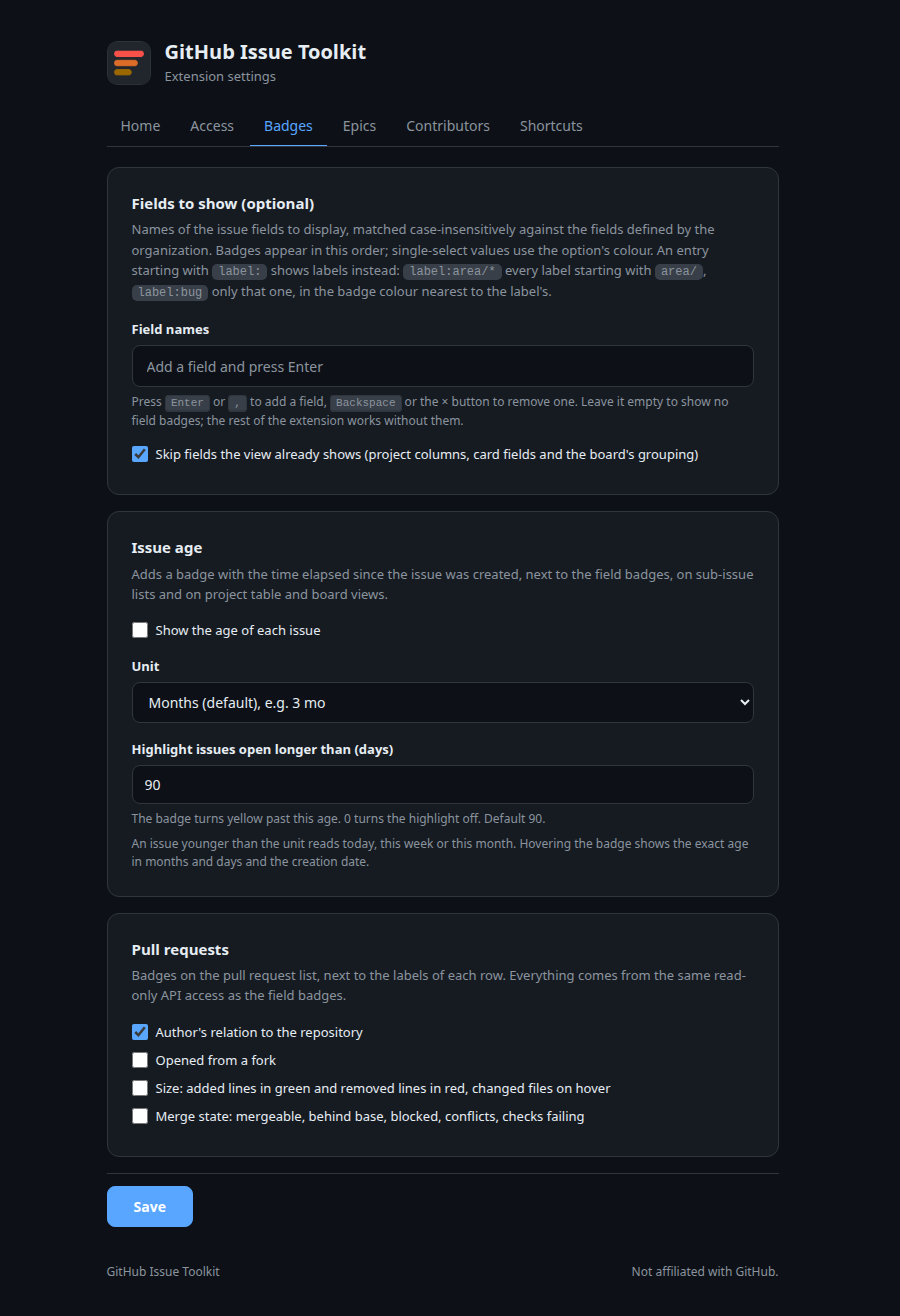
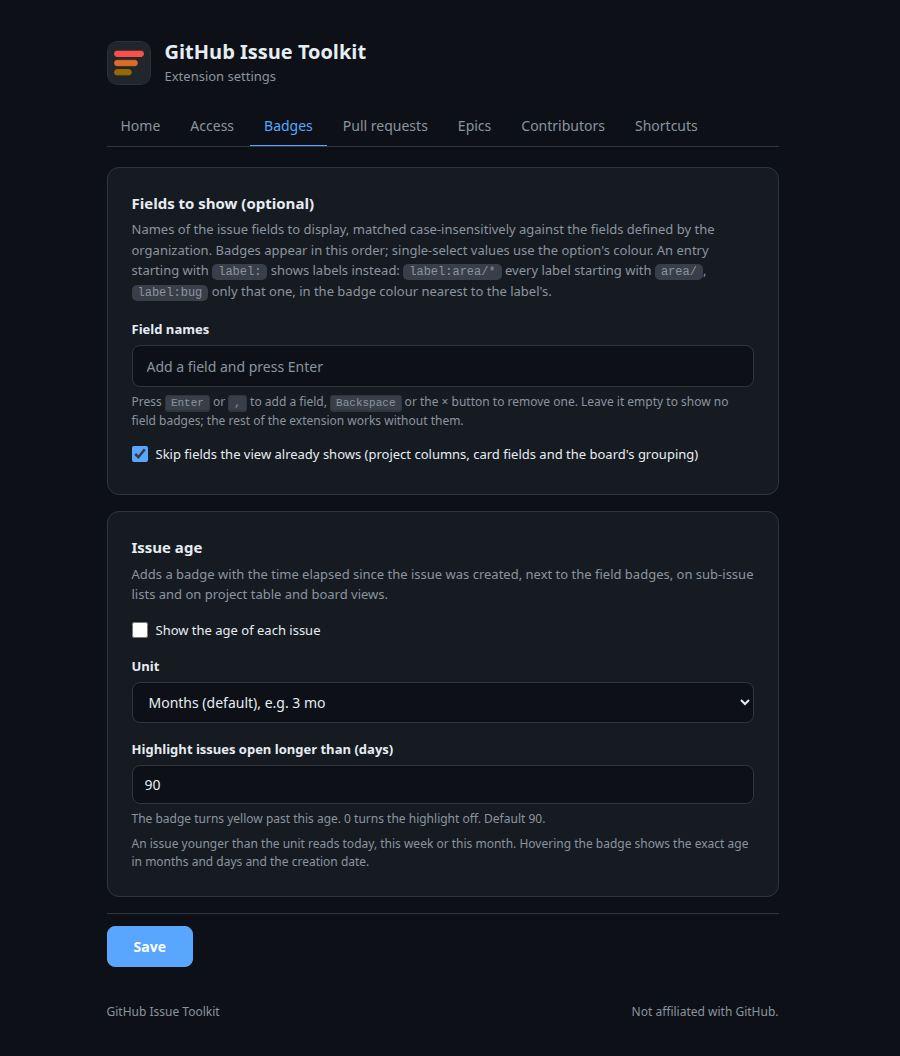
fix(settings): give pull requests their own tab and move related work there from epics (#63)
Related work on pull requests sat on the Epics tab, away from the pull
request badges it belongs with. Both now live on a new Pull requests
tab, which leaves Badges for the issue fields and the issue age and
Epics for the board, the progress and the sidebar.

- Add a Pull requests tab holding the pull request badges, moved from
Badges, and related work, moved from Epics
- Update the tab list, the Home map and the descriptions of the Badges
and Epics tabs
- Update the README, the site and the changelog to name the new tab and
regenerate the settings screenshots

Changed region(s): [[0.0933, 0.0312, 0.84, 0.9688], [0.6844, 0.9375, 0.8711, 0.9688], [0.7156, 0.0938, 0.7778, 0.125]]

diff --git a/options.html b/options.html
@@ -218,6 +218,7 @@
       <button type="button" role="tab" id="tab-home" data-tab="home" aria-controls="panel-home">Home</button>
       <button type="button" role="tab" id="tab-access" data-tab="access" aria-controls="panel-access">Access</button>
       <button type="button" role="tab" id="tab-badges" data-tab="badges" aria-controls="panel-badges">Badges</button>
+      <button type="button" role="tab" id="tab-pulls" data-tab="pulls" aria-controls="panel-pulls">Pull requests</button>
       <button type="button" role="tab" id="tab-epics" data-tab="epics" aria-controls="panel-epics">Epics</button>
       <button type="button" role="tab" id="tab-contributors" data-tab="contributors" aria-controls="panel-contributors">Contributors</button>
       <button type="button" role="tab" id="tab-shortcuts" data-tab="shortcuts" aria-controls="panel-shortcuts">Shortcuts</button>
@@ -239,8 +240,9 @@
         <h2>Where to find things</h2>
         <div class="tour">
           <button type="button" data-tab="access"><b>Access</b><span>Your personal access token and the site access Firefox asks for.</span></button>
-          <button type="button" data-tab="badges"><b>Badges</b><span>Issue fields, issue age and pull request badges.</span></button>
-          <button type="button" data-tab="epics"><b>Epics</b><span>The kanban board, sub-issue progress, related work on a pull request and the button that hides the issue sidebar.</span></button>
+          <button type="button" data-tab="badges"><b>Badges</b><span>Issue fields and issue age.</span></button>
+          <button type="button" data-tab="pulls"><b>Pull requests</b><span>The badges on the pull request list and the related work box above a pull request.</span></button>
+          <button type="button" data-tab="epics"><b>Epics</b><span>The kanban board, sub-issue progress and the button that hides the issue sidebar.</span></button>
           <button type="button" data-tab="contributors"><b>Contributors</b><span>Who a person is to the repository, their record in an organization on profiles, and the requests to be assigned on an issue.</span></button>
           <button type="button" data-tab="shortcuts"><b>Shortcuts</b><span>The pinned issues button in GitHub's top bar and search from the address bar with <code>@gh</code>.</span></button>
         </div>
@@ -294,13 +296,22 @@
         <p class="hint">The badge turns yellow past this age. 0 turns the highlight off. Default 90.</p>
         <p class="hint">An issue younger than the unit reads today, this week or this month. Hovering the badge shows the exact age in months and days and the creation date.</p>
       </section>
+    </div>
+
+    <div class="panel" id="panel-pulls" role="tabpanel" aria-labelledby="tab-pulls" hidden>
       <section class="card">
-        <h2>Pull requests</h2>
+        <h2>Pull request badges</h2>
         <p class="desc">Badges on the pull request list, next to the labels of each row. Everything comes from the same read-only API access as the field badges.</p>
         <label class="check"><input id="pr-association" type="checkbox"> Author's relation to the repository</label>
         <label class="check"><input id="pr-fork" type="checkbox"> Opened from a fork</label>
         <label class="check"><input id="pr-size" type="checkbox"> Size: added lines in green and removed lines in red, changed files on hover</label>
         <label class="check"><input id="pr-merge-state" type="checkbox"> Merge state: mergeable, behind base, blocked, conflicts, checks failing</label>
+      </section>
+      <section class="card">
+        <h2>Related work on pull requests</h2>
+        <p class="desc">On a pull request, a full-width box above its header lists everything connected to it: the issues it closes, what its description says it is related to, the other pull requests on the same issues and what mentions it. The issue it closes is named in the header, so it shows while the box is folded. The description is read for the words GitHub links with, <em>closes</em>, <em>fixes</em> and <em>resolves</em> in all their forms, and for the ones people use to tie changes together, <em>related to</em>, <em>part of</em>, <em>counterpart of</em>, <em>follow-up to</em>, <em>backport of</em>, <em>depends on</em>, <em>see</em> and so on, with <code>#123</code>, <code>owner/repo#123</code> and links to issues and pull requests. It is read once per pull request, in two requests, and kept until you close the tab.</p>
+        <label class="check"><input id="related-enabled" type="checkbox"> Show related work on pull requests</label>
+        <label class="check"><input id="related-folded" type="checkbox"> Collapse the box when a pull request opens, so only its header line shows</label>
       </section>
     </div>
 
@@ -325,12 +336,6 @@
           <input id="progress-done-value" type="text" spellcheck="false" autocomplete="off" placeholder="Done" aria-label="Value of that field that marks a sub-issue as done">
         </div>
         <p class="hint">A sub-issue counts as done when this field has this value, <code>Stage</code> and <code>Done</code> for example. Leave both empty and a closed sub-issue is a done one. Needs a token that can read issue fields, like the badges.</p>
-      </section>
-      <section class="card">
-        <h2>Related work on pull requests</h2>
-        <p class="desc">On a pull request, a full-width box above its header lists everything connected to it: the issues it closes, what its description says it is related to, the other pull requests on the same issues and what mentions it. The issue it closes is named in the header, so it shows while the box is folded. The description is read for the words GitHub links with, <em>closes</em>, <em>fixes</em> and <em>resolves</em> in all their forms, and for the ones people use to tie changes together, <em>related to</em>, <em>part of</em>, <em>counterpart of</em>, <em>follow-up to</em>, <em>backport of</em>, <em>depends on</em>, <em>see</em> and so on, with <code>#123</code>, <code>owner/repo#123</code> and links to issues and pull requests. It is read once per pull request, in two requests, and kept until you close the tab.</p>
-        <label class="check"><input id="related-enabled" type="checkbox"> Show related work on pull requests</label>
-        <label class="check"><input id="related-folded" type="checkbox"> Collapse the box when a pull request opens, so only its header line shows</label>
       </section>
       <section class="card">
         <h2>Issue sidebar</h2>

diff --git a/docs/index.html b/docs/index.html
@@ -666,7 +666,7 @@
       <p class="example-caption">Only the words that were found are bold, on a soft highlight. A closed list says which words are searched for and links to the settings where they can be changed. Nothing is hidden until you confirm.</p>
 
       <h3 style="margin-top:28px">Related work on pull requests</h3>
-      <p class="muted" style="font-size:14px">On a pull request, a full-width box above its header lists everything connected to it: the issues it closes, what its description says it is related to, the other pull requests on the same issues and what mentions it. The issue it closes is named in the header, so it shows while the box is folded. The description is read for the words GitHub links with, <em>closes</em>, <em>fixes</em> and <em>resolves</em> in all their forms, and for the ones people use to tie changes together, <em>related to</em>, <em>part of</em>, <em>counterpart of</em>, <em>follow-up to</em>, <em>backport of</em>, <em>depends on</em>, <em>see</em> and more, next to <code>#123</code>, <code>owner/repo#123</code> and links, so a counterpart in another repository is found too. Like the other panels it opens folded to its header line, with an arrow to unfold it, and a setting makes it start open. It can be turned off on the Epics tab of the settings.</p>
+      <p class="muted" style="font-size:14px">On a pull request, a full-width box above its header lists everything connected to it: the issues it closes, what its description says it is related to, the other pull requests on the same issues and what mentions it. The issue it closes is named in the header, so it shows while the box is folded. The description is read for the words GitHub links with, <em>closes</em>, <em>fixes</em> and <em>resolves</em> in all their forms, and for the ones people use to tie changes together, <em>related to</em>, <em>part of</em>, <em>counterpart of</em>, <em>follow-up to</em>, <em>backport of</em>, <em>depends on</em>, <em>see</em> and more, next to <code>#123</code>, <code>owner/repo#123</code> and links, so a counterpart in another repository is found too. Like the other panels it opens folded to its header line, with an arrow to unfold it, and a setting makes it start open. It can be turned off on the Pull requests tab of the settings.</p>
       <div class="panel gh-card mock-profile mock-related" id="ex-related" style="max-width:820px;padding:14px 16px">
         <div class="org">
           <div class="hd"><span class="fo"></span><span class="lg"><i></i></span><div class="bl"><span class="ti">Related work</span><span class="sb">closes</span><span class="lk">acme/webapp-ee#12798 Round the numbers in the charts</span><span class="sb">(3 pull requests)</span><span class="ag">Read just now</span></div></div>
@@ -809,12 +809,12 @@
       <h2>Settings</h2>
       <p class="muted">The token is the one essential; the fields to show, the age badge, the pull request badges, the contributor load button, the organization panel on profiles, the assignment requests box, related work on pull requests, the epic kanban toggle, the sub-issue progress, the sidebar button, hiding the sidebar's Projects section, the pinned issues button and the address bar search shortcuts are optional extras, each in the tab of its kind. Each field is a chip. Press <kbd>Enter</kbd> or <kbd>,</kbd> to add one, <kbd>Backspace</kbd> or the × button to remove one. Names are matched case-insensitively against the fields your organization defines, and badges appear in the order of the chips. Leave the fields empty and no field badges are shown, while the rest of the extension keeps working.</p>
       <figure>
-        <img class="only-light" src="settings-light.png" alt="The settings page on its Badges tab: the field names chip box, the issue age and the pull request badges">
-        <img class="only-dark" src="settings-dark.png" alt="The settings page in dark mode on its Badges tab: the field names chip box, the issue age and the pull request badges">
+        <img class="only-light" src="settings-light.png" alt="The settings page on its Badges tab: the field names chip box and the issue age">
+        <img class="only-dark" src="settings-dark.png" alt="The settings page in dark mode on its Badges tab: the field names chip box and the issue age">
         <figcaption>The settings page follows your browser theme, light or dark.</figcaption>
       </figure>
       <h3 style="margin-top:28px">Tabs</h3>
-      <p class="muted" style="font-size:14px">The settings page is split into tabs: Home, Access, Badges, Epics, Contributors and Shortcuts. Home is a short welcome with the state of your token and of the site access, and a map of the other tabs. It opens by itself the first time and not again once you pick another tab; after that the page opens on the tab you used last, and Home stays one click away. While there is no token, Home has an Add your token button that goes straight to the Access tab. A Save button sits at the bottom of every tab and saves all of them at once, so what you typed on one tab is kept while you look at another.</p>
+      <p class="muted" style="font-size:14px">The settings page is split into tabs: Home, Access, Badges, Pull requests, Epics, Contributors and Shortcuts. Home is a short welcome with the state of your token and of the site access, and a map of the other tabs. It opens by itself the first time and not again once you pick another tab; after that the page opens on the tab you used last, and Home stays one click away. While there is no token, Home has an Add your token button that goes straight to the Access tab. A Save button sits at the bottom of every tab and saves all of them at once, so what you typed on one tab is kept while you look at another.</p>
     </div>
   </section>
 

diff --git a/options.js b/options.js
@@ -62,7 +62,7 @@ const DEFAULT_SHORTCUTS = [
 ];
 const SHORTCUT_KINDS = { repo: "Repositories", issue: "Issues", pr: "Pull requests" };
 
-const TABS = ["home", "access", "badges", "epics", "contributors", "shortcuts"];
+const TABS = ["home", "access", "badges", "pulls", "epics", "contributors", "shortcuts"];
 const savebar = document.getElementById("savebar");
 const dirtyNote = document.getElementById("dirty");
 const discardButton = document.getElementById("discard");

diff --git a/README.md b/README.md
@@ -195,12 +195,12 @@ Minimum version: Firefox 140, required by the `data_collection_permissions` mani
    - **Fine-grained**: https://github.com/settings/personal-access-tokens/new. Set the organization as resource owner, pick the repositories, and under Repository permissions set `Issues` and `Pull requests` to `Read-only` (the pull request badges, the contributor button and the profile panel count pull requests), or `Issues` to `Read and write` if you want to link issues to pinned epics from the panel, drag cards on the kanban board or hide comments as outdated. The token's owner also needs write or triage access to a repository to hide comments in it. Members of an organization who keep their membership private are only seen as members by a classic token with the `read:org` scope.
 2. Open the **Access** tab, paste the token, click **Test token**, then **Save**.
 3. On the **Badges** tab, optionally add the **Field names** to show: each field is a chip, press Enter or comma to add one, Backspace or the × button to remove one. Names are matched case-insensitively. An entry starting with `label:` shows labels instead, `label:area/*` for every label starting with `area/` or `label:bug` for one, in the badge colour nearest to the label's own. With no field, no field badges are shown and nothing is asked of the API for them.
-4. Everything else is optional. On **Badges**: the **Issue age** badge (off by default), its unit and the age after which it turns yellow (90 days by default), and which **Pull request** badges you want (author relation on by default; fork, size and merge state off). On **Epics**: **Related work on pull requests** (on by default), the **Epic kanban** toggle and dragging cards on it, whether to replace GitHub's **Sub-issue progress** with one that counts a scope (off by default), the button that hides the **Issue sidebar** (on), and whether to hide the sidebar's **Projects** section (off). On **Contributors**: **Contributor load**, the number of merged pull requests that makes someone a regular (5) and the limit above which someone is flagged (off by default, limit 1). On **Shortcuts**: the **Pinned issues** button in GitHub's top bar (on) and your **Address bar search** shortcuts (a `repo` and a `pr` one to start with).
+4. Everything else is optional. On **Badges**: the **Issue age** badge (off by default), its unit and the age after which it turns yellow (90 days by default). On **Pull requests**: which **Pull request badges** you want (author relation on by default; fork, size and merge state off) and **Related work on pull requests** (on by default). On **Epics**: the **Epic kanban** toggle and dragging cards on it, whether to replace GitHub's **Sub-issue progress** with one that counts a scope (off by default), the button that hides the **Issue sidebar** (on), and whether to hide the sidebar's **Projects** section (off). On **Contributors**: **Contributor load**, the number of merged pull requests that makes someone a regular (5) and the limit above which someone is flagged (off by default, limit 1). On **Shortcuts**: the **Pinned issues** button in GitHub's top bar (on) and your **Address bar search** shortcuts (a `repo` and a `pr` one to start with).
 5. Open any issue with sub-issues, or a project view such as `https://github.com/orgs/<org>/projects/<n>/views/<v>`.
 
 ### Settings tabs
 
-The toolbar icon opens the settings page, which is split into tabs: Home, Access, Badges, Epics, Contributors and Shortcuts. Home is a short welcome with the state of your token and of the site access, and a map of the other tabs. It opens by itself the first time and not again once you pick another tab; after that the page opens on the tab you used last, and Home stays one click away. While there is no token, Home has an Add your token button that goes straight to the Access tab. A Save button sits at the bottom of every tab and saves all of them at once, so what you typed on one tab is kept while you look at another. Once something has changed the bar says so and offers Discard, which puts every setting back to what is saved.
+The toolbar icon opens the settings page, which is split into tabs: Home, Access, Badges, Pull requests, Epics, Contributors and Shortcuts. Home is a short welcome with the state of your token and of the site access, and a map of the other tabs. It opens by itself the first time and not again once you pick another tab; after that the page opens on the tab you used last, and Home stays one click away. While there is no token, Home has an Add your token button that goes straight to the Access tab. A Save button sits at the bottom of every tab and saves all of them at once, so what you typed on one tab is kept while you look at another. Once something has changed the bar says so and offers Discard, which puts every setting back to what is saved.
 
 ### Epic kanban
 
@@ -278,7 +278,7 @@ A comment of more than 400 characters is discussion rather than a request and is
 
 ### Related work
 
-On a pull request, a full-width box above its header, in the same flat style as the other panels, lists what is connected to it. The issue it closes is named in the header, so it shows while the box is folded; the box opens folded to its header line, with an arrow to unfold it, and a setting makes it start open. It can be turned off with **Related work on pull requests** on the **Epics** tab. It is only shown when there is something to show.
+On a pull request, a full-width box above its header, in the same flat style as the other panels, lists what is connected to it. The issue it closes is named in the header, so it shows while the box is folded; the box opens folded to its header line, with an arrow to unfold it, and a setting makes it start open. It can be turned off with **Related work on pull requests** on the **Pull requests** tab. It is only shown when there is something to show.
 
 - **Closes** lists the issues the pull request will close: the ones GitHub has linked to it in its Development list, and the ones its description closes with `close`, `closes`, `closed`, `fix`, `fixes`, `fixed`, `resolve`, `resolves` or `resolved`.
 - **Related, from the description** lists what the description ties the pull request to with words such as `related to`, `relates to`, `part of`, `counterpart of`, `follow-up to`, `backport of`, `port of`, `continues`, `depends on`, `blocked by`, `supersedes`, `replaces`, `duplicate of`, `see`, `ref` and a few more, each shown with the word that was used. This is how a counterpart in another repository, a `kestra-ee` pull request for a `kestra` one, shows up.

diff --git a/CHANGELOG.md b/CHANGELOG.md
@@ -4,7 +4,9 @@ All notable changes to this project are documented here. The format follows [Kee
 
 ## [Unreleased]
 
-Nothing yet.
+### Changed
+
+- The settings page has a **Pull requests** tab, holding the pull request badges, which moved there from Badges, and **Related work on pull requests**, which moved there from Epics, so what concerns pull requests is in one place. Badges now holds the issue fields and the issue age, and Epics the kanban board, the sub-issue progress and the sidebar.
 
 ## [2.12.1] - 2026-11-25
 
